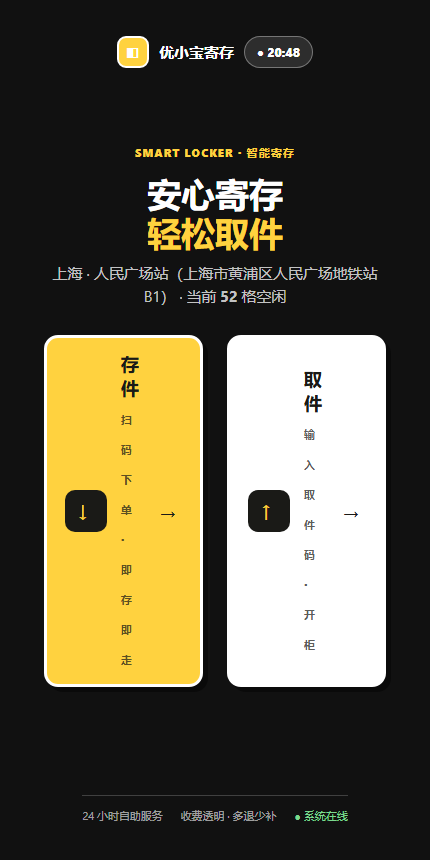
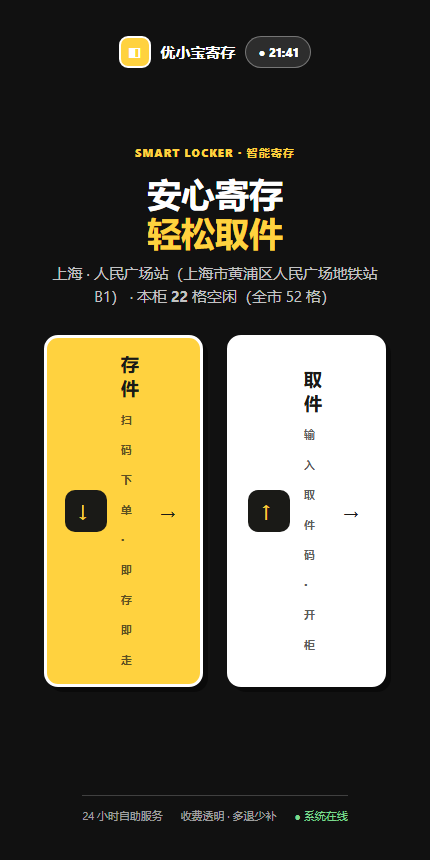
fix v0.5.4 #301o 柜格详情与地图优化：去多余按钮+格子点击详情+地图标注名称与地区搜索+后台网点切换显示名称+柜机编号去重与本柜空闲数+新用户默认头像隔离

diff --git a/web/app.js b/web/app.js
@@ -44,8 +44,16 @@ const state = {
   adminInfo: null,
   chatAfter: 0,
   chatTimer: null,
-  avatar: localStorage.getItem("locker_avatar") || "🙂",
+  avatar: "🙂", // 登录后按当前用户加载，绝不跨用户继承
 };
+// 头像按用户隔离存储，避免新用户继承他人上传的图片
+function avatarKey(uid) { return "locker_avatar_" + uid; }
+function loadAvatar(uid, serverVal) {
+  const v = serverVal || localStorage.getItem(avatarKey(uid)) || "🙂";
+  state.avatar = v;
+  if (uid) localStorage.setItem(avatarKey(uid), v);
+  return v;
+}
 const AVATARS = ["🙂", "😎", "🐶", "🐱", "🦊", "🐼", "🚀", "🌟"];
 
 // 剪贴板：优先 Clipboard API，失败回退 execCommand（IDE 内嵌浏览器/非安全上下文可用）
@@ -73,8 +81,8 @@ function cabinetGrid(cabinets, showNo) {
   const cls = { idle: "free", occupied: "used", fault: "err" };
   const txt = { idle: "空闲", occupied: "占用", fault: "异常" };
   return '<div class="cab-grid">' + cabinets.map((c) =>
-    '<div class="cab-cell ' + (cls[c.status] || "free") + '" data-lid="' + (c.id || "") + '" title="' + esc(c.code) + ' ' + (txt[c.status] || "") + '">' +
-    (showNo ? '<b>' + esc(c.code.replace(/^[A-Za-z]-?/, "")) + '</b><span>' + (txt[c.status] || "") + '</span>' : "") + '</div>').join("") + '</div>';
+    '<div class="cab-cell ' + (cls[c.status] || "free") + '" data-lid="' + (c.id || "") + '" data-code="' + esc(c.code) + '" title="' + esc(c.code) + ' ' + (txt[c.status] || "") + '">' +
+    (showNo ? '<b>' + esc(c.code) + '</b><span>' + (txt[c.status] || "") + '</span>' : "") + '</div>').join("") + '</div>';
 }
 function cabinetLegend(byStatus) {
   const s = byStatus || {};
@@ -318,7 +326,8 @@ document.addEventListener("click", (e) => {
     else body.password = password;
     api("/api/user/login", "POST", body).then((r) => {
       saveToken(r.token);
-      if (r.avatar) { state.avatar = r.avatar; localStorage.setItem("locker_avatar", r.avatar); }
+      localStorage.setItem("locker_uid", String(r.userId));
+      loadAvatar(r.userId, r.avatar);
       toast("登录成功");
       if (!r.hasLoginPwd) {
         // 首次用验证码登录：引导设置密码，下次即可密码登录
@@ -357,16 +366,15 @@ routes["u-home"] = async function () {
       const d = await api("/api/outlets/" + id).catch(() => null);
       if (!d) { box.innerHTML = '<div class="faint tiny">柜格状态加载失败</div>'; return; }
       box.innerHTML = cabinetGrid(d.cabinets || [], false) + cabinetLegend(d.byStatus);
-      const card = $("#cabStatusCard");
-      if (card) card.onclick = (e) => {
-        if (e.target.closest("select") || e.target.closest(".cab-switch")) return;
-        modal('<div class="bold14 mb10">柜格使用情况 · ' + esc(d.name) + '</div>' +
-          '<div class="faint tiny mb8">' + esc(d.address || (cur.city + " · " + d.name)) + '</div>' +
-          cabinetGrid(d.cabinets || [], true) + cabinetLegend(d.byStatus) +
-          '<div class="faint tiny mt12" style="line-height:1.7">空闲柜格可直接寄存；异常柜格暂不开放。用户端取件请在柜机端凭取件码操作。</div>' +
-          '<button class="btn btn-primary mt12" id="cabOk" style="width:100%">我知道了</button>');
-        $("#cabOk").onclick = closeModal;
-      };
+      // 点击单个柜格查看该格详情（不再整卡弹窗）
+      box.querySelectorAll(".cab-cell[data-code]").forEach((cell) => {
+        cell.style.cursor = "pointer";
+        cell.onclick = () => {
+          const c = (d.cabinets || []).find((x) => x.code === cell.dataset.code) || {};
+          const nm = { idle: "空闲", occupied: "占用", fault: "异常" }[c.status] || c.status;
+          toast("柜格 " + c.code + " · " + nm + (c.problem ? "（" + c.problem + "）" : " · " + d.name), 3000);
+        };
+      });
     };
     const first = outlets[0];
     if (!first) { box.innerHTML = '<div class="faint tiny">暂无网点</div>'; return; }
@@ -388,8 +396,7 @@ routes["u-home"] = async function () {
     '<div class="hero-actions"><button class="hero-act" data-action="spec"><div class="ic">' + I.box + '</div><b>立即存件</b><span>选柜型 · 在线支付</span></button>' +
     '<button class="hero-act" data-action="nav" data-id="u-orders"><div class="ic">' + I.list + '</div><b>我的订单</b><span>查看取件码 / 补交</span></button></div>' +
     '<div class="faint tiny mt8" style="text-align:center">取件请到柜机触屏端，输入订单中的 6 位取件码</div>' +
-    '<div class="card mt12" id="cabStatusCard"><div class="row" style="justify-content:space-between"><div><b>柜机状态</b><div class="faint tiny" id="cabLoc">' + esc(outlets[0] ? outlets[0].name + ' · ' + (outlets[0].address || '') : '') + '</div></div>' +
-    '<span class="link cab-switch">查看详情 ›</span></div>' +
+    '<div class="card mt12" id="cabStatusCard"><div class="row" style="justify-content:space-between"><div><b>柜机状态</b><div class="faint tiny" id="cabLoc">' + esc(outlets[0] ? outlets[0].name + ' · ' + (outlets[0].address || '') : '') + '</div></div></div>' +
     '<div class="row gap8 mt8"><select class="input cab-switch" id="cabOutletSel" style="width:auto;min-width:140px">' + outlets.map((o) => '<option value="' + o.id + '" ' + (state.cabOutlet === o.id ? 'selected' : '') + '>' + esc(o.name) + '</option>').join('') + '</select><span class="faint tiny">切换柜点查看状态</span></div>' +
     '<div id="cabMini" class="mt8"><div class="faint tiny">加载中…</div></div></div>' +
     '<div class="section"><div class="section-h"><b>附近网点</b><span class="link" data-action="nav" data-id="u-outlets">全部 ›</span></div>' +
@@ -444,7 +451,13 @@ function renderLeaflet(outlets) {
     if (!tileOK && outletMap && $("#olMap")) { outletMap.remove(); outletMap = null; mapFallback(outlets); }
   }, 3000);
   pts.forEach((o) => {
-    L.marker([o.lat, o.lng]).addTo(outletMap)
+    // 带名称的常驻标签，明确标注是哪个寄存点
+    const icon = L.divIcon({
+      className: "map-pin-label",
+      html: '<div class="mpl-name">' + esc(o.name) + '</div><div class="mpl-free">空闲 ' + (o.idle || 0) + ' 格</div>',
+      iconSize: [110, 40], iconAnchor: [55, 40],
+    });
+    L.marker([o.lat, o.lng], { icon }).addTo(outletMap)
       .bindPopup('<b>' + esc(o.name) + '</b><br>空闲 ' + (o.idle || 0) + ' 格<br>' + esc(o.address || ""))
       .on("click", () => openOutletDetail(o.id));
   });
@@ -465,20 +478,32 @@ function loadLeaflet(outlets) {
 }
 function initOutletMap(outlets) { if (!outlets.length) { mapFallback(outlets); return; } loadLeaflet(outlets); }
 routes["u-outlets"] = async function () {
+  const cities = await api("/api/cities").catch(() => []);
   const outlets = await api("/api/outlets?city=" + encodeURIComponent(state.city)).catch(() => []);
   state._after = () => {
     initOutletMap(outlets);
+    // 地区搜索：输入城市/区/网点名/地址，实时过滤列表并同步地图标记
     const inp = $("#olSearch");
     if (inp) inp.oninput = (e) => {
       const kw = e.target.value.trim();
+      if (!kw) {
+        $("#olList").innerHTML = outlets.map(outletRow).join("");
+        initOutletMap(outlets);
+        return;
+      }
       api("/api/outlets/search?q=" + encodeURIComponent(kw)).then((list) => {
         const el = $("#olList");
-        if (el) el.innerHTML = list.map(outletRow).join("");
-      });
+        if (el) el.innerHTML = list.length ? list.map(outletRow).join("") : '<div class="faint tiny">未找到匹配网点，试试城市名如"上海"</div>';
+        initOutletMap(list);
+      }).catch(() => {});
     };
+    document.querySelectorAll(".ol-city").forEach((b) => {
+      b.onclick = () => { state.city = b.dataset.c; render(); };
+    });
   };
   return appHeader("附近寄存 · " + esc(state.city), "u-home") +
-    '<div class="app-pad"><input class="input" id="olSearch" placeholder="搜索网点名称 / 地址">' +
+    '<div class="app-pad"><input class="input" id="olSearch" placeholder="搜索地区 / 网点 / 地址（如：上海、人民广场）">' +
+    '<div class="row gap8 mt8" style="flex-wrap:wrap">' + cities.map((c) => '<button class="btn sm ol-city ' + (c.city === state.city ? "btn-primary" : "") + '" data-c="' + esc(c.city) + '">' + esc(c.city) + '</button>').join("") + '</div>' +
     '<div id="olMap" class="ol-map mt12"></div>' +
     '<div id="olList" class="mt12">' + outlets.map(outletRow).join("") + "</div></div>" + tabbar("");
 };
@@ -722,7 +747,8 @@ routes["u-mine"] = function () {
     if (av) av.onclick = () => {
       const saveAvatar = async (a) => {
         state.avatar = a;
-        localStorage.setItem("locker_avatar", a);
+        const uid = (state.userInfo && state.userInfo.userId) || Number(localStorage.getItem("locker_uid") || 0);
+        if (uid) localStorage.setItem(avatarKey(uid), a);
         const box = $("#myAvatar");
         if (box) box.innerHTML = avatarHTML(a, "user-avatar");
         closeModal();
@@ -923,11 +949,11 @@ routes["k-standby"] = async function () {
   return '<div class="kiosk kiosk-idle">' +
     '<div class="k-brand"><span class="k-brand-m">◧</span> 优小宝寄存<span class="k-clock" id="kClock">● ' + kClock() + '</span></div>' +
     '<div class="k-center"><span class="k-eyebrow">SMART LOCKER · 智能寄存</span>' +
-    '<h1>安心寄存<br><em>轻松取件</em></h1><p>' + esc(state.city) + ' · ' + esc(detail ? detail.name + (detail.address ? '（' + detail.address + '）' : '') : '暂无网点') + ' · 当前 <b>' + sh.idle + '</b> 格空闲</p>' +
+    '<h1>安心寄存<br><em>轻松取件</em></h1><p>' + esc(state.city) + ' · ' + esc(detail ? detail.name + (detail.address ? '（' + detail.address + '）' : '') : '暂无网点') + ' · 本柜 <b>' + (byStatus.idle || 0) + '</b> 格空闲（全市 ' + sh.idle + ' 格）</p>' +
     '<div class="k-actions"><button class="k-btn" data-action="kioskStore"><span class="ki">↓</span><span><b class="n">存 件</b><span class="d">扫码下单 · 即存即走</span></span><span class="ar">→</span></button>' +
     '<button class="k-btn k-btn-alt" data-action="kioskPickup"><span class="ki">↑</span><span><b class="n">取 件</b><span class="d">输入取件码 · 开柜</span></span><span class="ar">→</span></button></div></div>' +
     '<div class="k-art"><div class="hd">' + esc(detail ? detail.name : '柜机') + ' · 柜格实时状态 LIVE</div><div class="grid">' +
-    (cabinets.length ? cabinets.slice(0, 24).map((c) => '<div class="d ' + (c.status === "occupied" ? "used" : c.status === "fault" ? "err" : "") + '" title="' + esc(c.code) + ' ' + statusName[c.status] + '">' + esc(c.code.replace(/^[A-Za-z]-?/, "")) + '</div>').join("") : '<div class="faint tiny">暂无数据</div>') +
+    (cabinets.length ? cabinets.map((c) => '<div class="d ' + (c.status === "occupied" ? "used" : c.status === "fault" ? "err" : "") + '" title="' + esc(c.code) + ' ' + statusName[c.status] + '">' + esc(c.code) + '</div>').join("") : '<div class="faint tiny">暂无数据</div>') +
     '</div><div class="k-legend"><span><i class="free"></i>空闲 ' + (byStatus.idle || 0) + '</span><span><i class="used"></i>占用 ' + (byStatus.occupied || 0) + '</span><span><i class="err"></i>异常 ' + (byStatus.fault || 0) + '</span></div></div>' +
     '<div class="k-foot"><span>24 小时自助服务</span><span>收费透明 · 多退少补</span><span class="live">● 系统在线</span></div></div>';
 };
@@ -1137,13 +1163,11 @@ routes["m-monitor"] = async function () {
   const g = adminGuard("m-monitor");
   if (g !== null) return g;
   const me = JSON.parse(localStorage.getItem("locker_admin") || "null") || {};
-  // 网点管理员无权访问"网点管理"模块，使用登录态里的 scopeOutletId，不调 /api/admin/outlets
   const scope = me.scopeOutletId || 0;
-  const outs = me.role === "site_admin"
-    ? [{ id: scope, name: me.scopeOutletName || "本网点" }]
-    : await admApi("/api/admin/outlets").catch(() => []);
+  // 用公开网点接口取全部网点（含名称/地址），三端一致；仅柜格操作受角色限制
+  const outs = await api("/api/outlets").catch(() => []);
   const oid = state.monOutlet || (scope && me.role === "site_admin" ? scope : (outs[0] && outs[0].id)) || 0;
-  const lockers = oid ? await admApi("/api/admin/lockers?outletId=" + oid).catch(() => []) : [];
+  const lockers = oid ? await api("/api/outlets/" + oid).then((d) => d.cabinets || []).catch(() => []) : [];
   state._after = () => {
     document.querySelectorAll(".mon-o").forEach((b) => { b.onclick = () => { state.monOutlet = Number(b.dataset.id); render(); }; });
     document.querySelectorAll(".mon-repair").forEach((b) => {
@@ -1159,7 +1183,9 @@ routes["m-monitor"] = async function () {
         modal('<div class="bold14 mb10">柜格 ' + esc(d.code) + " " + statusChip(d.status) + "</div>" +
           '<div class="tiny faint">状态：' + statusName[d.status] + (d.faultSource ? " · 来源：" + esc(d.faultSource) : "") + (d.faultNote ? " · " + esc(d.faultNote) : "") + "</div>" +
           (d.order ? '<div class="tiny faint mt8">关联订单 ' + esc(d.order.orderNo) + "</div>" : "") +
-          '<div class="row gap8 mt16"><button class="btn flex1 mon-act" data-a="remote_open">远程开柜</button><button class="btn flex1 mon-act" data-a="repair">报修恢复</button><button class="btn flex1 mon-act" data-a="switch">切换柜格</button></div>');
+          ((me.role === "site_admin" && oid !== me.scopeOutletId)
+            ? '<div class="faint tiny mt12">当前网点非您管辖范围，仅可查看状态，不能执行操作</div>'
+            : '<div class="row gap8 mt16"><button class="btn flex1 mon-act" data-a="remote_open">远程开柜</button><button class="btn flex1 mon-act" data-a="repair">报修恢复</button><button class="btn flex1 mon-act" data-a="switch">切换柜格</button></div>'));
         document.querySelectorAll(".mon-act").forEach((b) => {
           b.onclick = () => {
             admApi("/api/admin/lockers/" + lid + "/action", "POST", { action: b.dataset.a }).then((r) => {
@@ -1175,12 +1201,12 @@ routes["m-monitor"] = async function () {
   const faults = lockers.filter((l) => l.status === "fault");
   return adminShell("m-monitor",
     '<div class="h2">柜格实时监控</div><div class="faint tiny mt5">按柜格编号查看实时状态，点击柜格可执行 远程开柜 / 报修恢复 / 切换柜格</div>' +
-    '<div class="row gap8 mt12">' + outs.map((o) => '<button class="btn ' + (o.id === oid ? "btn-primary" : "") + ' mon-o" data-id="' + o.id + '">' + esc(o.name) + "</button>").join("") + '</div>' +
+    '<div class="row gap8 mt12" style="flex-wrap:wrap">' + outs.map((o) => '<button class="btn ' + (o.id === oid ? "btn-primary" : "") + ' mon-o" data-id="' + o.id + '" title="' + esc(o.address || "") + '">' + esc(o.name) + (o.address ? '<span class="faint tiny" style="display:block;font-weight:400">' + esc(o.address) + '</span>' : '') + "</button>").join("") + '</div>' +
     '<div class="card mt16"><div class="row" style="justify-content:space-between"><b>柜格状态网格</b><span class="faint tiny">共 ' + lockers.length + ' 格</span></div>' +
     '<div class="mt12" id="mon-cells">' + cabinetGrid(lockers.map((l) => ({ code: l.code, status: l.status, id: l.id })), true) + '</div>' +
     cabinetLegend(bs) + '</div>' +
     (faults.length ? '<div class="card mt12"><b>异常柜格（' + faults.length + '）</b><table class="tbl mt10"><thead><tr><th>柜格</th><th>来源</th><th>问题</th><th>操作</th></tr></thead><tbody>' +
-      faults.map((l) => '<tr><td class="mono">' + esc(l.code) + '</td><td>' + esc(l.faultSource || "系统自检") + '</td><td>' + esc(l.faultNote || "传感器异常") + '</td><td><button class="btn sm mon-repair" data-lid="' + l.id + '">派单维修</button></td></tr>').join("") + '</tbody></table></div>' : ''));
+      faults.map((l) => '<tr><td class="mono">' + esc(l.code) + '</td><td>' + esc(l.faultSource || "系统自检") + '</td><td>' + esc(l.faultNote || "传感器异常") + '</td><td>' + ((me.role === "site_admin" && oid !== me.scopeOutletId) ? '<span class="faint tiny">仅查看</span>' : '<button class="btn sm mon-repair" data-lid="' + l.id + '">派单维修</button>') + '</td></tr>').join("") + '</tbody></table></div>' : ''));
 };
 
 routes["m-rules"] = async function () {

diff --git a/scripts/verify_round13.js b/scripts/verify_round13.js
@@ -1,0 +1,62 @@
+const path = require("path");
+const pwDir = "C:/Users/91526/.ai-manager/runtimes/node/24.21.0/node_modules/@playwright/cli/node_modules/playwright-core";
+const { chromium } = require(path.join(pwDir, "index.js"));
+const BASE = "http://localhost:8090/";
+let pass = 0, fail = 0;
+const check = (n, ok, d) => { ok ? pass++ : fail++; console.log((ok ? "[PASS] " : "[FAIL] ") + n + "  " + d); };
+
+(async () => {
+  const b = await chromium.launch({ headless: true });
+  const p = await b.newPage({ viewport: { width: 1280, height: 900 } });
+  const errs = []; p.on("pageerror", (e) => errs.push(e.message));
+
+  // 登录用户A
+  await p.goto(BASE + "#u-login"); await p.waitForTimeout(300);
+  await p.click('.login-tab[data-m="code"]'); await p.waitForTimeout(150);
+  await p.fill("#phone", "13900001113"); await p.fill("#code", "1234"); await p.check("#agreeChk"); await p.click("#doLogin"); await p.waitForTimeout(900);
+  if (await p.locator("#skipPwd").count()) { await p.click("#skipPwd"); await p.waitForTimeout(200); }
+  await p.goto(BASE + "#u-home"); await p.waitForTimeout(900);
+  const cabCardTxt = await p.locator("#cabStatusCard").innerText();
+  check("Q1-无多余查看详情按钮", !cabCardTxt.includes("查看详情"), "card=" + cabCardTxt.slice(0, 50));
+  const codes = await p.evaluate(() => [...document.querySelectorAll("#cabMini .cab-cell")].map((x) => x.dataset.code || ""));
+  check("Q4-用户端柜格编号完整唯一", codes.length > 0 && /^[AB]-/.test(codes[0]) && new Set(codes).size === codes.length, "codes=" + codes.slice(0, 3).join(",") + " unique=" + new Set(codes).size + "/" + codes.length);
+  // 点击格子看详情
+  await p.locator("#cabMini .cab-cell").first().click(); await p.waitForTimeout(200);
+  check("Q1-点格子看详情", (await p.locator("#toast-root").innerText()).includes("柜格"), "toast=" + (await p.locator("#toast-root").innerText()).slice(0, 40));
+
+  // 地图标注+搜索
+  await p.goto(BASE + "#u-outlets"); await p.waitForTimeout(3500);
+  const mapTxt = await p.locator("#olMap").innerText();
+  check("Q2-地图标注网点名", mapTxt.includes("人民广场") || mapTxt.includes("虹桥"), "map=" + mapTxt.slice(0, 60));
+  check("Q2-地区搜索框", await p.locator("#olSearch").count() > 0 && await p.locator(".ol-city").count() >= 2, "cityBtns=" + await p.locator(".ol-city").count());
+  await p.fill("#olSearch", "虹桥"); await p.waitForTimeout(600);
+  check("Q2-搜索过滤列表", (await p.locator("#olList").innerText()).includes("虹桥"), "filtered");
+
+  // 柜机端空闲数与编号
+  await p.goto("http://localhost:8082/#k-standby"); await p.waitForTimeout(800);
+  const kCenter = await p.locator(".k-center p").innerText();
+  check("Q4-柜机显示本柜空闲数", kCenter.includes("本柜") && !/本柜\s*52/.test(kCenter), "text=" + kCenter);
+  const kCodes = await p.evaluate(() => [...document.querySelectorAll(".k-art .d")].map((x) => x.textContent.trim()));
+  check("Q4-柜机编号完整唯一", kCodes.length > 0 && /^[AB]-/.test(kCodes[0]) && new Set(kCodes).size === kCodes.length, "codes=" + kCodes.slice(0,3).join(",") + " unique=" + new Set(kCodes).size);
+
+  // 后台网点切换
+  await p.goto(BASE + "#m-login"); await p.waitForTimeout(200);
+  await p.fill("#admId", "site_rm"); await p.fill("#admPwd", "000000"); await p.click("#admLogin"); await p.waitForTimeout(700);
+  await p.goto(BASE + "#m-monitor"); await p.waitForTimeout(600);
+  check("Q3-后台网点按钮带名称", (await p.locator(".mon-o").first().innerText()).includes("站") || (await p.locator(".mon-o").first().innerText()).includes("枢纽"), "btn=" + (await p.locator(".mon-o").first().innerText()).slice(0, 30));
+  check("Q3-后台可切换多个网点", await p.locator(".mon-o").count() >= 2, "buttons=" + await p.locator(".mon-o").count());
+
+  // 新用户默认头像（隔离）
+  await p.goto(BASE + "#u-login"); await p.evaluate(() => localStorage.removeItem("locker_token")); await p.reload(); await p.waitForTimeout(300);
+  await p.click('.login-tab[data-m="code"]'); await p.waitForTimeout(150);
+  await p.fill("#phone", "13900008888"); await p.fill("#code", "1234"); await p.check("#agreeChk"); await p.click("#doLogin"); await p.waitForTimeout(900);
+  if (await p.locator("#skipPwd").count()) { await p.click("#skipPwd"); await p.waitForTimeout(200); }
+  await p.goto(BASE + "#u-mine"); await p.waitForTimeout(400);
+  const av = await p.locator("#myAvatar").innerHTML();
+  check("Q5-新用户默认头像非图片", !av.includes("<img") && av.includes("🙂"), "avatar=" + av.slice(0, 50));
+
+  console.log("JS错误:", errs.length ? errs.join("\n") : "无");
+  console.log("RESULT PASS=" + pass + " FAIL=" + fail);
+  await b.close();
+  process.exit(fail > 0 ? 1 : 0);
+})();

diff --git a/web/app.css b/web/app.css
@@ -214,8 +214,8 @@
 .k-btn .ar { margin-left: auto; font-size: 20px; font-weight: 800; }
 .k-art { position: absolute; right: 48px; top: 110px; width: 220px; z-index: 2; }
 .k-art .hd { font-size: 10px; letter-spacing: .1em; color: rgba(255,255,255,.6); margin-bottom: 9px; }
-.k-art .grid { display: grid; grid-template-columns: repeat(4, 1fr); gap: 7px; }
-.k-art .d { aspect-ratio: 1; border-radius: 6px; border: 2px solid rgba(255,255,255,.5); background: var(--pop, #FFC93C); }
+.k-art .grid { display: grid; grid-template-columns: repeat(6, 1fr); gap: 5px; }
+.k-art .d { aspect-ratio: 1; border-radius: 5px; border: 2px solid rgba(255,255,255,.5); background: var(--pop, #FFC93C); display: grid; place-items: center; font-size: 10px; font-weight: 800; color: #1A1A17; }
 .k-art .d.used { background: #9A9487; }
 .k-art .d.err { background: #FF8A65; }
 .k-legend { display: flex; gap: 12px; margin-top: 10px; font-size: 10px; color: rgba(255,255,255,.7); }
@@ -270,6 +270,14 @@ img.user-avatar { width: 52px; height: 52px; object-fit: cover; border-radius: 1
 .map-fallback-pins .pin { position: absolute; background: var(--pop, #FFC93C); border: 2px solid var(--ink); border-radius: 12px; padding: 3px 8px; font-size: 11px; font-weight: 800; cursor: pointer; white-space: nowrap; transform: translate(-50%, -50%); }
 .map-fallback-pins .pin:hover { background: #fff; box-shadow: 2px 2px 0 var(--ink); }
 .leaflet-container { font-family: inherit; }
+/* 地图常驻标签：明确标注寄存点名称 */
+.map-pin-label { background: transparent !important; border: 0 !important; }
+.map-pin-label .mpl-name { background: var(--pop, #FFC93C); border: 2px solid var(--ink); border-radius: 7px; padding: 3px 7px; font-size: 11px; font-weight: 800; white-space: nowrap; box-shadow: 2px 2px 0 rgba(0,0,0,.3); }
+.map-pin-label .mpl-free { display: inline-block; margin-top: 2px; background: #fff; border: 2px solid var(--ink); border-radius: 6px; padding: 1px 6px; font-size: 10px; white-space: nowrap; }
+/* 弹窗内柜格网格限宽，避免格子超出弹窗 */
+.modal-box .cab-grid { grid-template-columns: repeat(6, 1fr); gap: 5px; }
+.modal-box .cab-cell b { font-size: 10px; }
+.modal-box .cab-cell span { font-size: 8px; }
 
 /* 柜格实时状态网格（三端共用） */
 .cab-grid { display: grid; grid-template-columns: repeat(8, 1fr); gap: 8px; }

diff --git a/cmd/server/main.go b/cmd/server/main.go
@@ -88,9 +88,9 @@ func main() {
 	}
 	// 资源 URL 加版本戳：即使中间代理缓存了旧文件，版本号变化也会强制重新拉取
 	indexHTML := strings.NewReplacer(
-		"proto.css", "proto.css?v=20261123g",
-		"app.css", "app.css?v=20261123g",
-		"app.js", "app.js?v=20261123g",
+		"proto.css", "proto.css?v=20261123h",
+		"app.css", "app.css?v=20261123h",
+		"app.js", "app.js?v=20261123h",
 	).Replace(string(indexBytes))
 
 	srv := httpapi.New(st)
